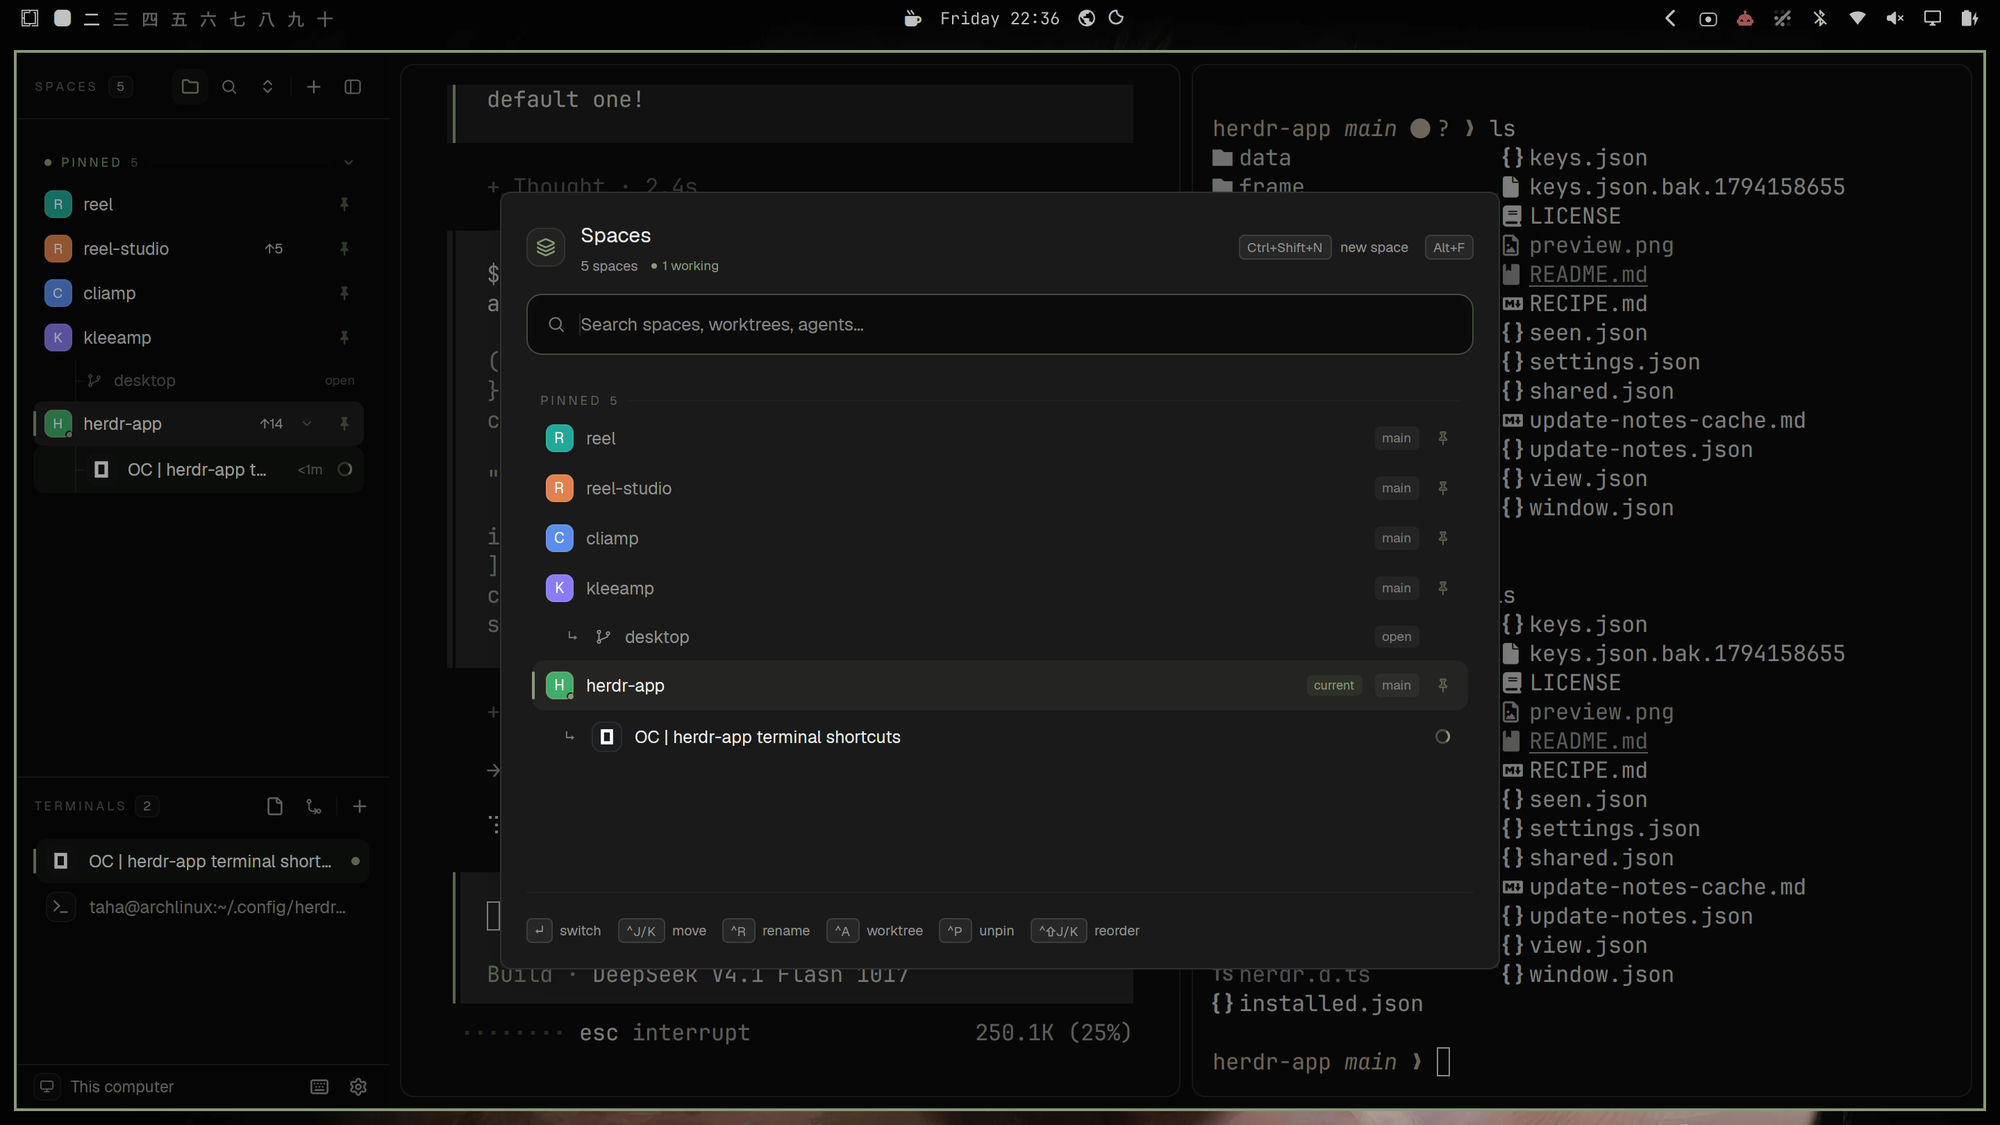
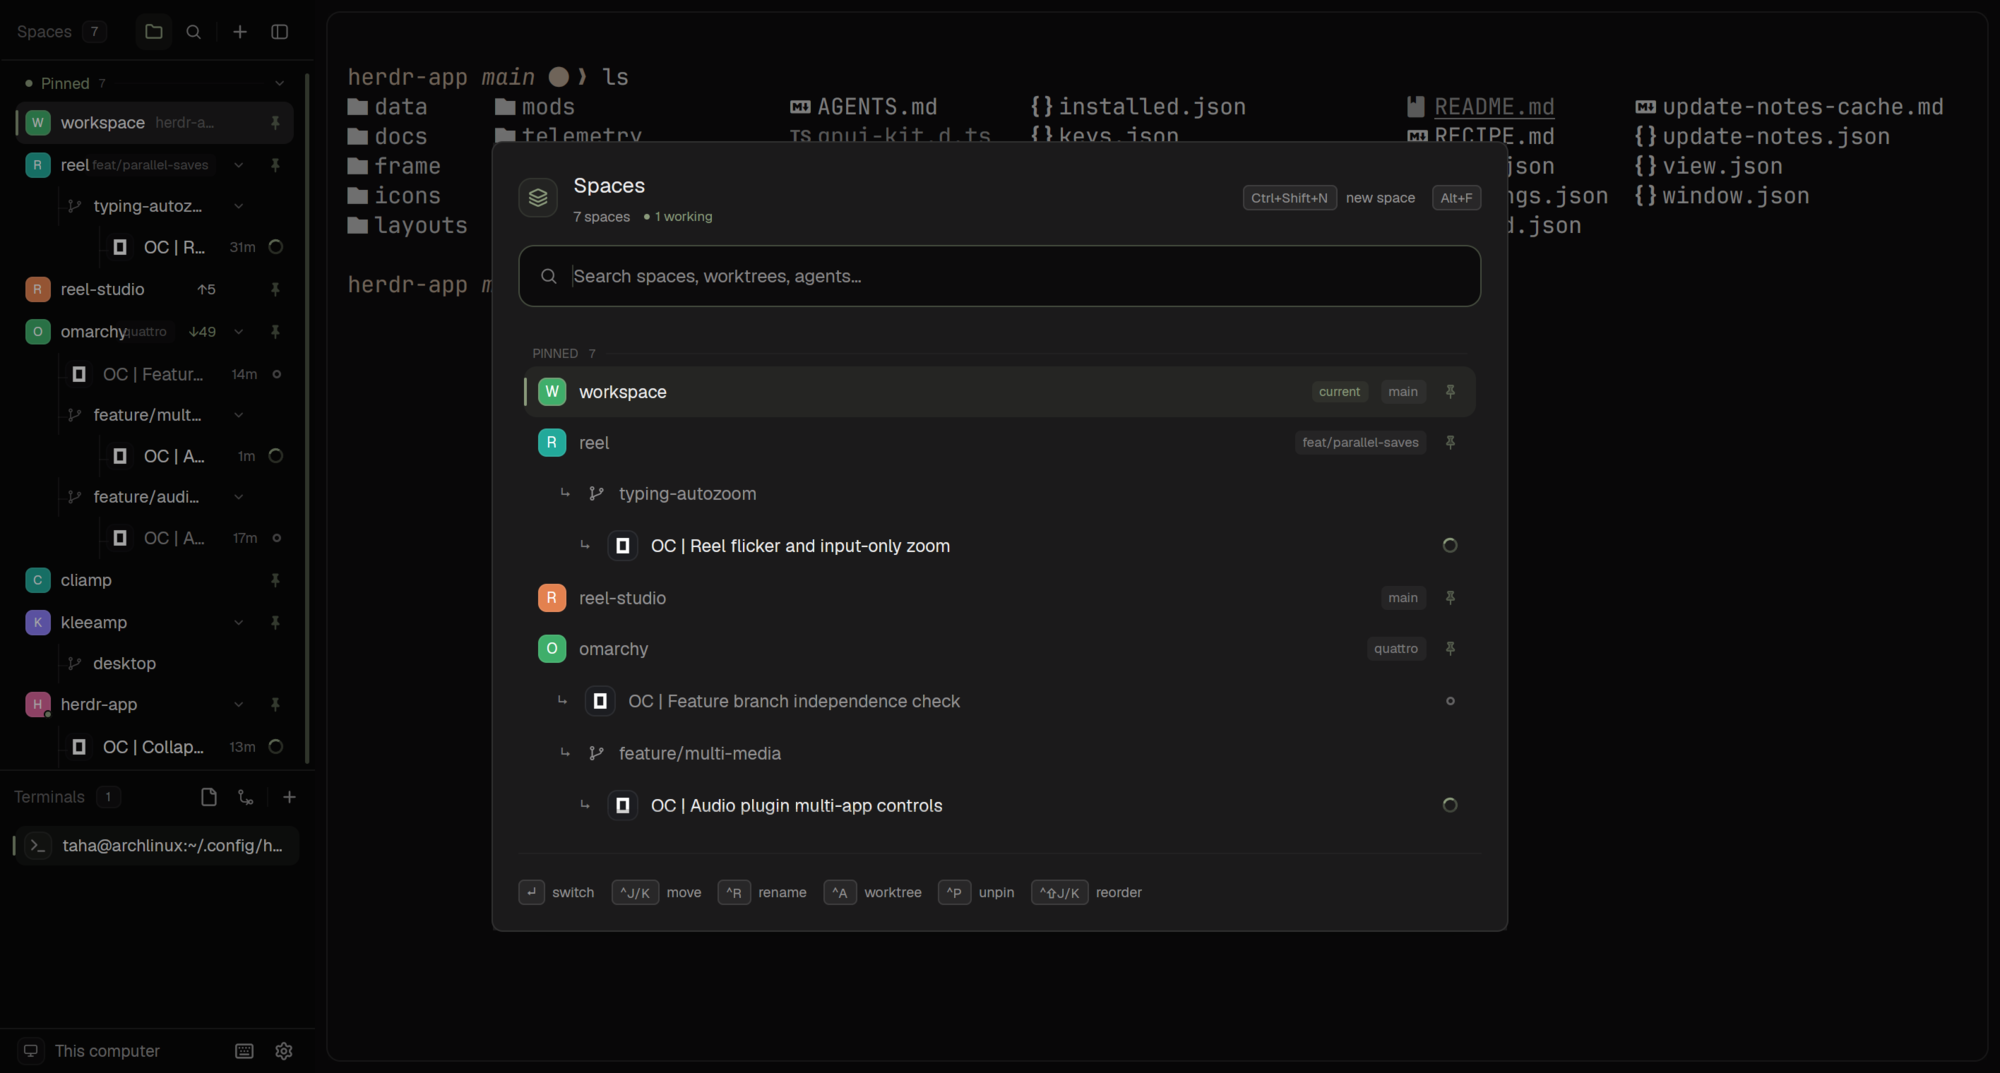
docs(layout): show the accent scrollbar and refresh the preview
preview.png predated the sidebar's new bar, and neither the README nor
the recipe described it. The preview is a fresh window shot, the README
gains the feature line and the gallery link, and the recipe covers the
bar, its measured-row reveal, and the one thing not to undo: the app's
16 px grey bar cannot be restyled from a mod.

Verified: all 13 test files pass, all nine mods pass `herdr-app check`,
and a scratch install merges the layout, its mods and its keys.

diff --git a/RECIPE.md b/RECIPE.md
@@ -32,6 +32,12 @@ window edge is its edge), not resizable by its edge — it collapses instead.
 - **The footer**, 32 px, `chrome` background with a hairline above: a 20 px
   monitor/server tile and the machine's name at `11.5 px` on the left, a keyboard
   and a gear on the right, 26 px each.
+- **A bar of its own.** When a list outgrows its box, a 3 px `accent` thumb sits
+  3 px in from the panel's edge — fully rounded, no track, 4 px while the
+  pointer is on the bar. The list scrolls inside the mod (`scroller` in
+  `sidebar.js`): the wheel moves an offset, the rows are drawn at it, and the
+  thumb is the mod's. Reaching a row from the keyboard sums each row's measured
+  height (`reveal`).
 
 **The work area**, `canvas` background, 8 px padding and 8 px gaps: the active
 tab as cards — 10 px radius, 1 px `border` (1 px `accent` while the pane has the
@@ -397,6 +403,12 @@ foreground `#c1c1c1`, selection `#333333`, accent/solid `#8a9a7b`).
   `mods/changes/changes.svg`. Those folders are Herdr's shipped mods and are not
   copied into this repository — they exist on any Herdr install, but a rebuild must
   not expect them in the bundle, and renaming a path here means drawing nothing.
+- **The bar is the mod's, not the app's.** `overflow_y_scrollbar` paints a
+  16 px, square, `foreground`-grey bar whose width, colours and radius are the
+  base theme's; no style a mod can set reaches it. `scroller` therefore owns the
+  offset: `overflow_y_scroll`, a translated content column, an `accent` thumb,
+  and one measured wrapper per row so `reveal` can put a row on screen. Do not
+  "simplify" it back to `overflow_y_scrollbar`.
 - **The layout must be a clone.** `layout.set` — the flip and the panel's width
   bookkeeping — refuses structural edits on a shipped layout, so this file is a
   clone of `main` and must stay one.
@@ -473,7 +485,10 @@ foreground `#c1c1c1`, selection `#333333`, accent/solid `#8a9a7b`).
   finds the search binding and `Esc` closes it.
 - `herdr-app check mods/<each>` passes for all nine mods, and `herdr-app status`
   reports no errors.
-- The ten test files pass: `node tests/*.test.mjs`. They cut functions out of
+- The sidebar overflows: a 3 px `accent` thumb runs down its right edge with no
+  track, the wheel moves the rows, pressing the track jumps, dragging the thumb
+  follows the pointer, and `Ctrl+J`/`K` keeps the selected row on screen.
+- The thirteen test files pass: `node tests/*.test.mjs`. They cut functions out of
   the mods and run them with stubs, so they fail when the code changes rather
   than when the test drifts.
 - Reorder: `Ctrl+Shift+K` three times on the last space moves it three places

diff --git a/README.md b/README.md
@@ -4,7 +4,7 @@ A keyboard-driven [Herdr](https://herdr.dev) layout: one sidebar with every agen
 and terminal, a search sheet, and no tab bar. Panes are cards, the footer drags
 the window, and a narrow sidebar folds into a rail of avatars and state marks.
 
-![Herdr Workspace](preview.png?v=2)
+![Herdr Workspace](preview.png?v=3)
 
 ## What you get
 
@@ -13,6 +13,10 @@ the window, and a narrow sidebar folds into a rail of avatars and state marks.
   (Needs you → Done → Working → Idle); the sort button also offers *Grouped by
   space* and *Spaces with agents*. Terminals show their program's mark, tab and
   status. Pins, sub-agents and multiple machines are handled in place.
+- **A bar that belongs to the theme.** When a list outgrows its box, a 3 px
+  accent thumb runs down its right edge — fully rounded, no track, 4 px while
+  the pointer is on it. The wheel, a press on the bar and dragging it all work;
+  the keyboard keeps its row on screen.
 - **One search sheet, `Alt+F`.** Pinned places, spaces, worktrees and agents in
   one tree. Typing matches names, branches, folders, titles and states at once —
   `web hotfix` finds a space and its worktree, `needs you` finds what is waiting.
@@ -186,7 +190,8 @@ breaks the panels. `RECIPE.md` lists them and everything else a rebuild needs.
 
 ## Publishing
 
-This is a layout bundle, listed at herdr.dev/layouts by its `herdr-layout` topic.
+This is a layout bundle, listed at herdr.dev/layouts by its `herdr-layout` topic:
+[herdr.dev/layouts/tahadx/herdr-workspace](https://herdr.dev/layouts/tahadx/herdr-workspace).
 `preview.png` is a screenshot; `layouts/workspace.svg` is the drawn thumbnail.
 To re-render it:
 
